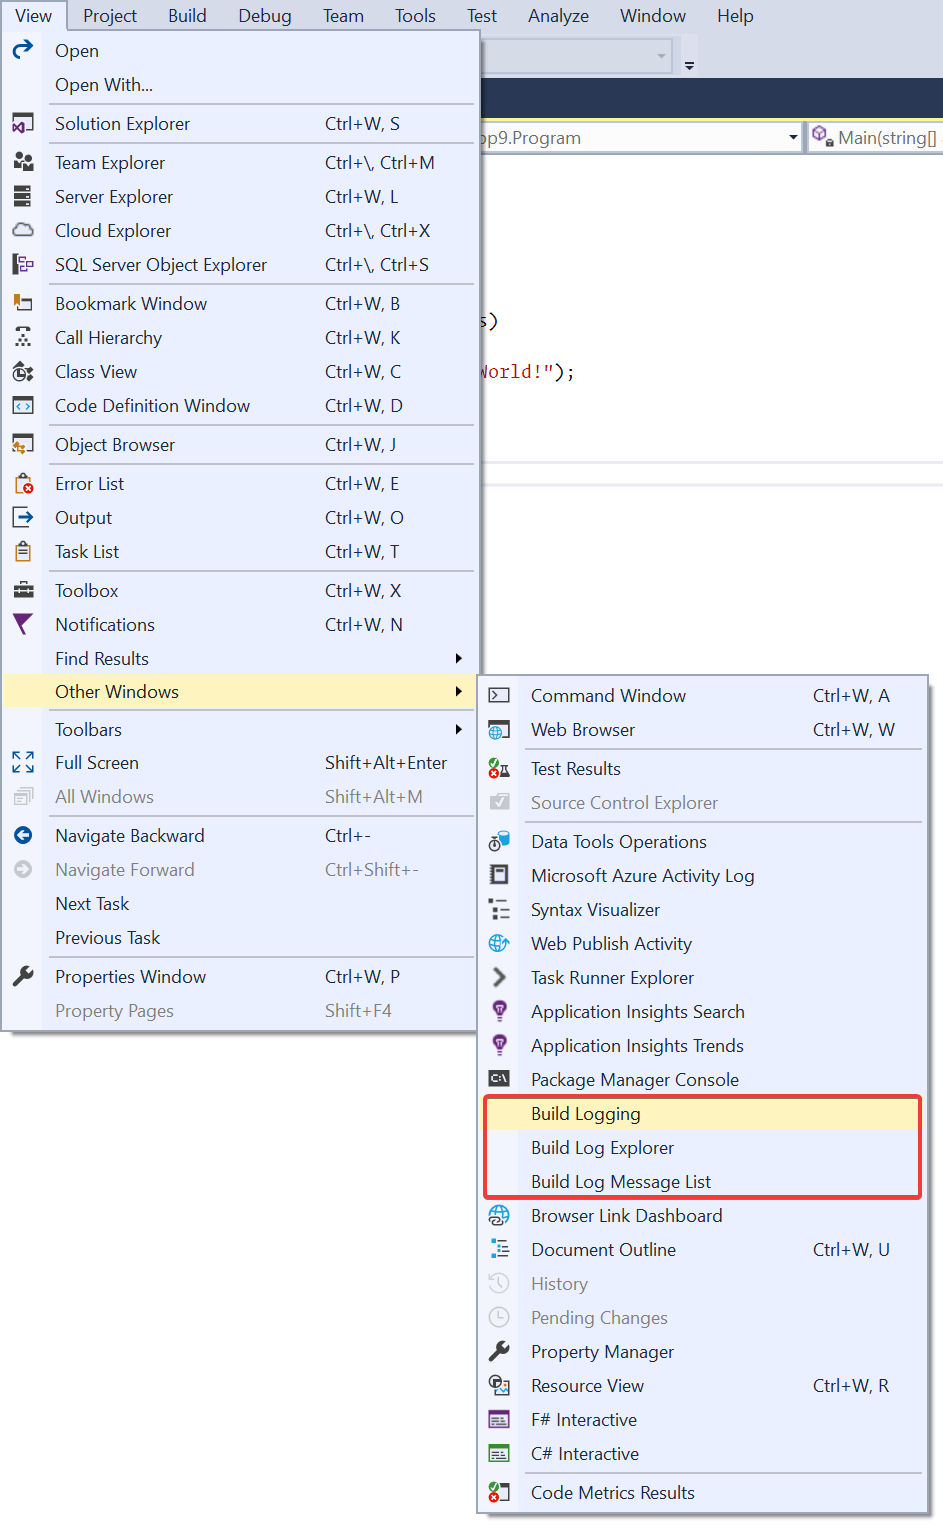
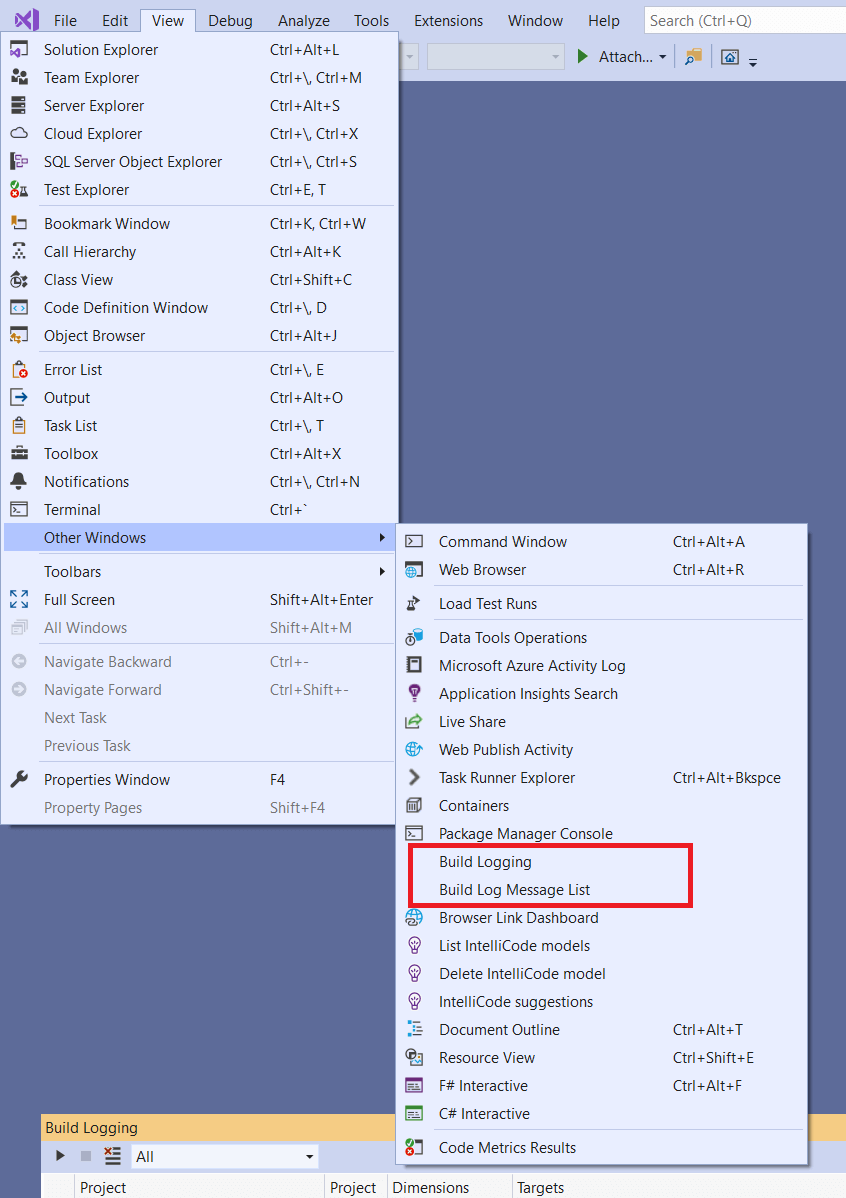
Update readme (#324)
* add images

* remove build log explorer from readme

* Readme change, typo fix

* compressed image sizes

diff --git a/README.md b/README.md
@@ -14,21 +14,21 @@ Click the first toolbar icon to start recording both regular and design-time bui
 
 Once a build is recorded, it will appear as shown. Right-clicking the build item produces a context menu:
 
-<img src="img/build-logging-context-menu.png" width="664">
+<img src="img/build-logging-context-menu.png" width="470">
 
 From here you may:
 
 - _Save Logs_ which prompts for a folder to save the `.binlog` file into
-- _Open Logs_ which opens the log in [MSBuild Structured Log Viewer](http://msbuildlog.com/)
-- _Explore logs_ which opens the `Build Log Explorer` pane in Visual Studio
+- _Open Logs_ which opens the log file inside Visual Studio
+- _Open Logs External_ which opens the `.binlog` file outside of Visual Studio
 
-The `Build Log Explorer` pane displays build results in a tree view:
+The `Open Logs` option displays build results in a tree view:
 
-<img src="img/build-log-explorer.png" width="664">
+<img src="img/open-log-view.png" width="470">
 
 By opening the `Build Message List` pane (via the `View > Other Windows` menu, as above) you can see data about the selected tree node.
 
-<img src="img/build-message-list.png" width="664">
+<img src="img/build-message-list.png" width="470">
 
 ## Contributing
 We welcome contributions and suggestions!
